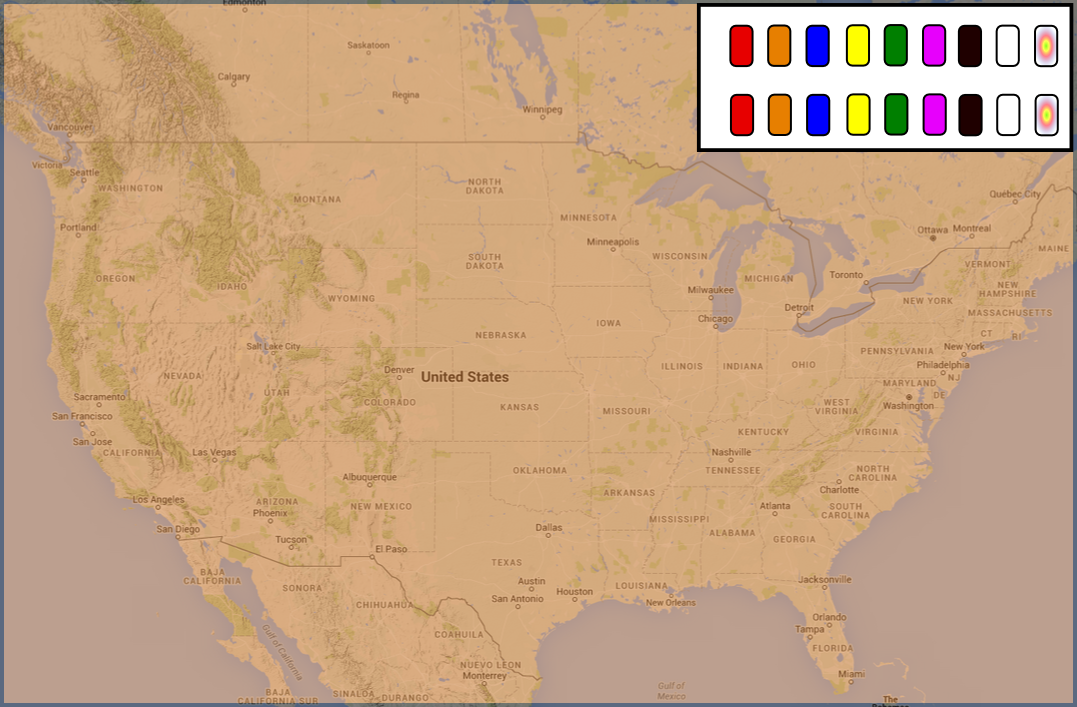
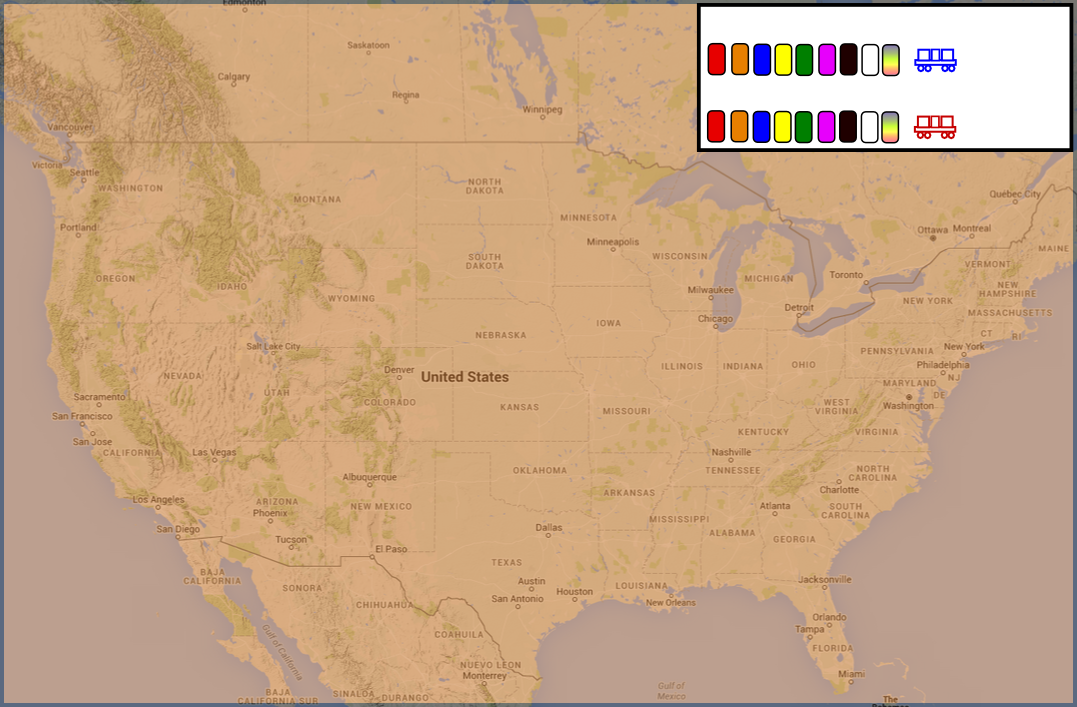
updated gui so counts are in correct place, figure stays around until closed at end of game

Changed region(s): [[0.6435, 0.0311, 1.0, 0.2178]]

diff --git a/gui/gui.py b/gui/gui.py
@@ -52,21 +52,21 @@ class GUI:
 
             #First for player 1
         x = 705
-        y = 60
+        y = 33
         i = 0
         for i in range(9):
 
             print(str(i))
             self.player_1_cards[str(i)] = plt.text(x, y, '0', fontdict=None)
-            x = x+ 39
+            x = x+ 22
 
             #Next for player 2
         x = 705
-        y = 130
+        y = 103
         i = 0
         for i in range(9):
             self.player_2_cards[str(i)] = plt.text(x, y, '0', fontdict=None)
-            x = x+ 39
+            x = x+ 22
 
 
 
@@ -82,7 +82,7 @@ class GUI:
  #               i=i+1
  #               print(self.cards_pos_x)
         plt.draw()
-
+       # plt.show()
     colors = []
     cities = dict()
     x = []
@@ -202,6 +202,8 @@ class GUI:
 
 
     def update_game_ended(self, game):
+        self.update(game)
+        plt.ioff()
         plt.show()
         # TODO: Implement.
         pass

diff --git a/driver/__init__.py b/driver/__init__.py
@@ -26,3 +26,4 @@ for player in players:
 print "Game Over"
 print "Winner: %s" % game.is_game_over()[1]
 print "Final Scores: %s" % game.get_visible_scores()
+game_gui.update_game_ended(game)
